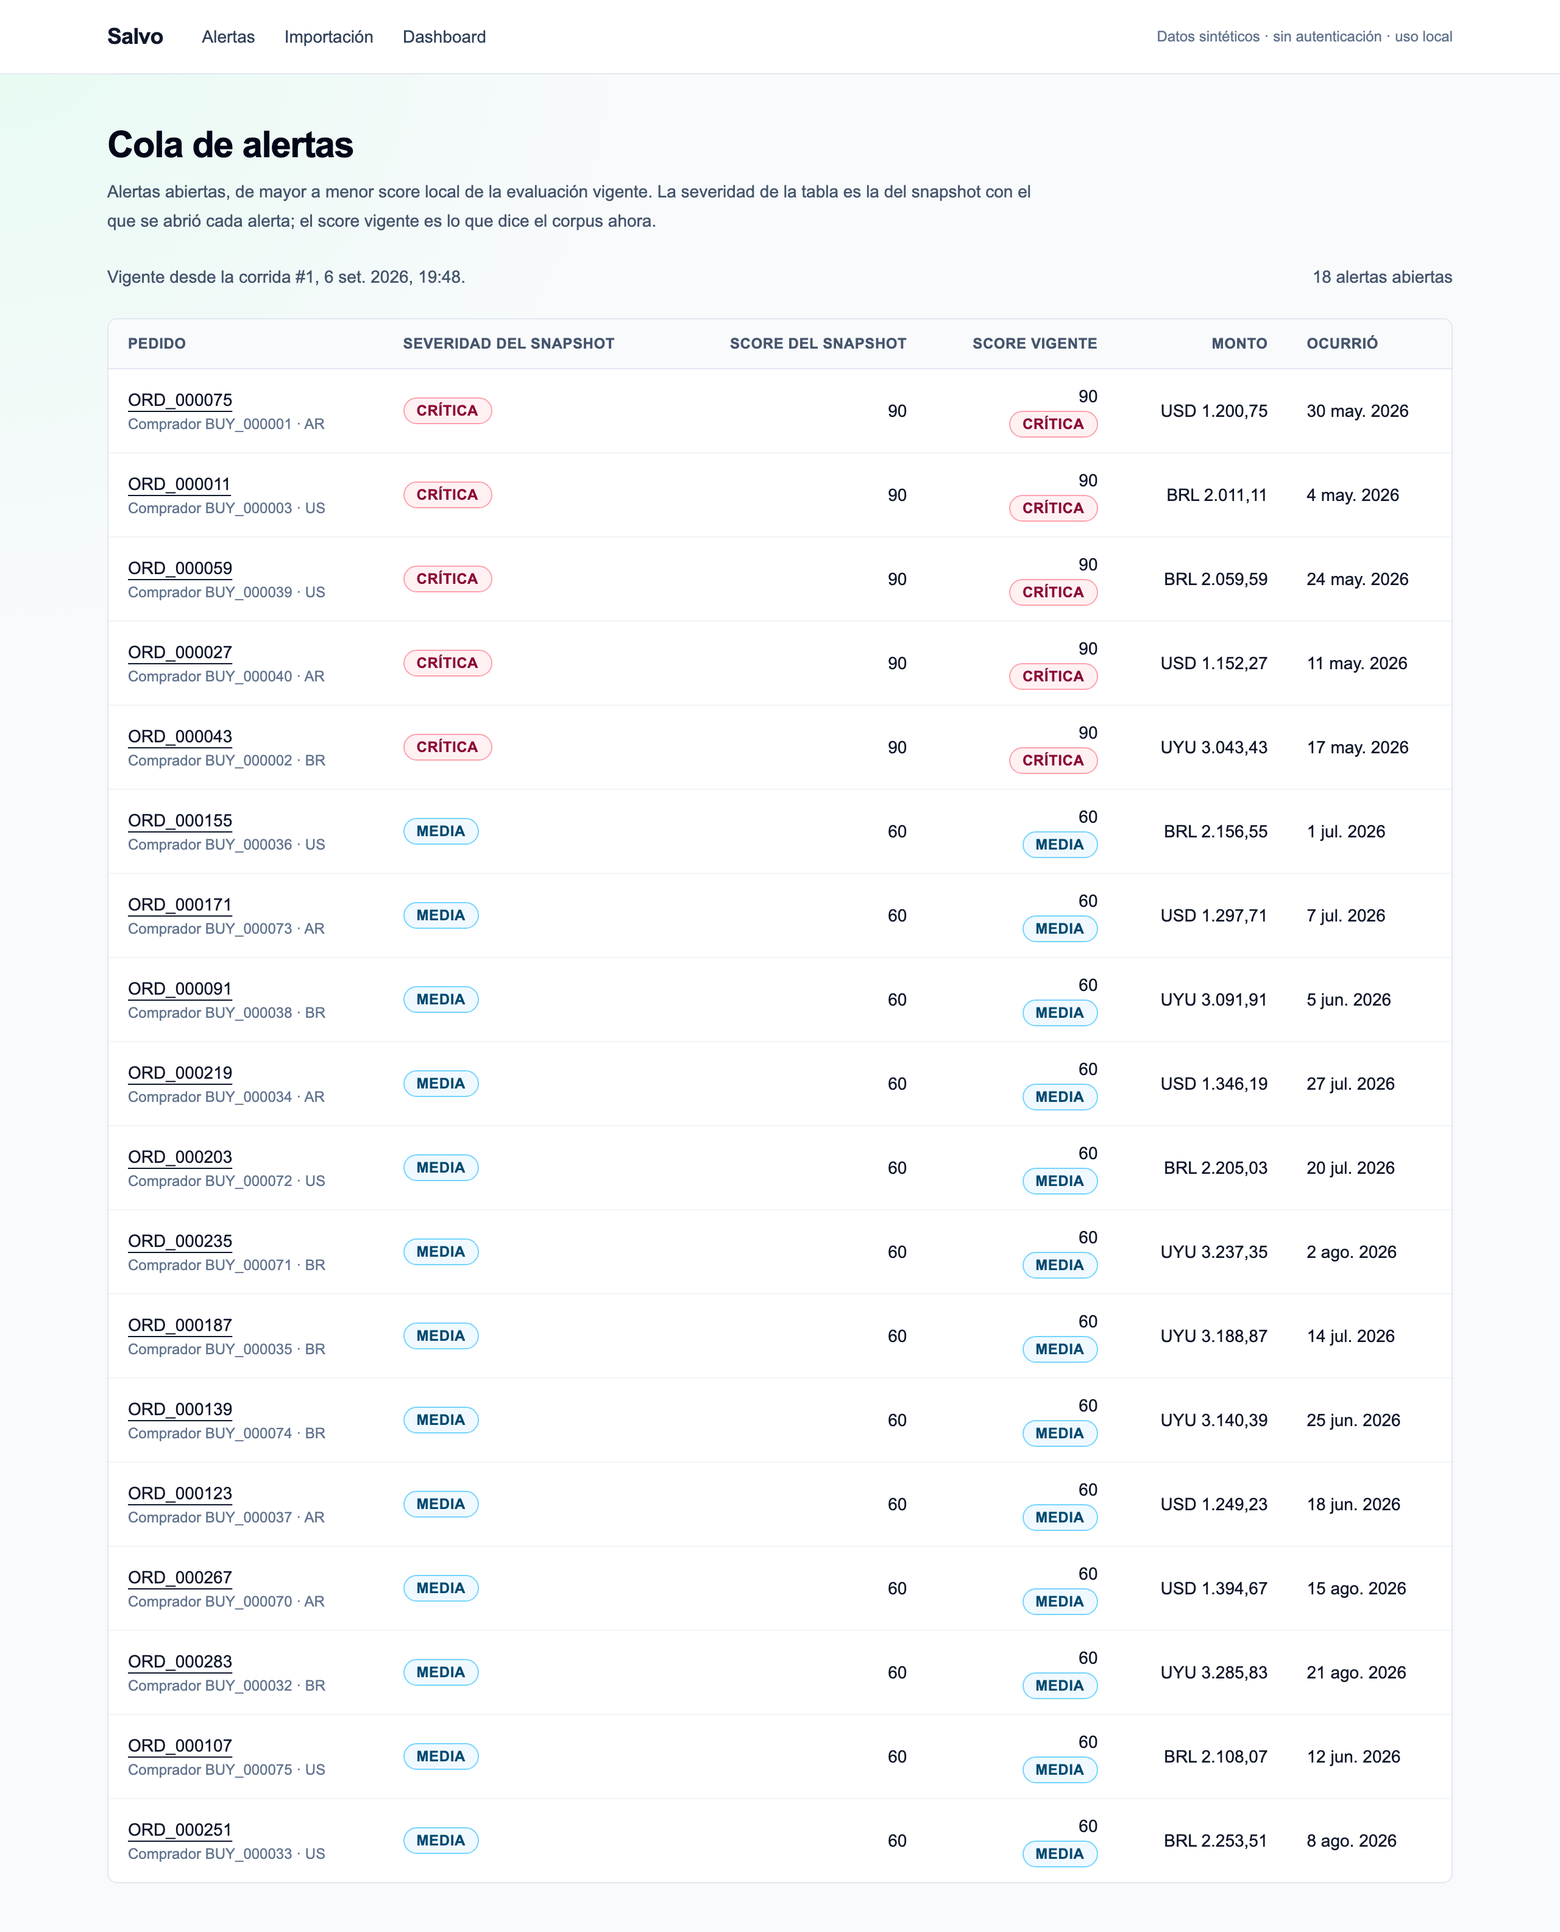
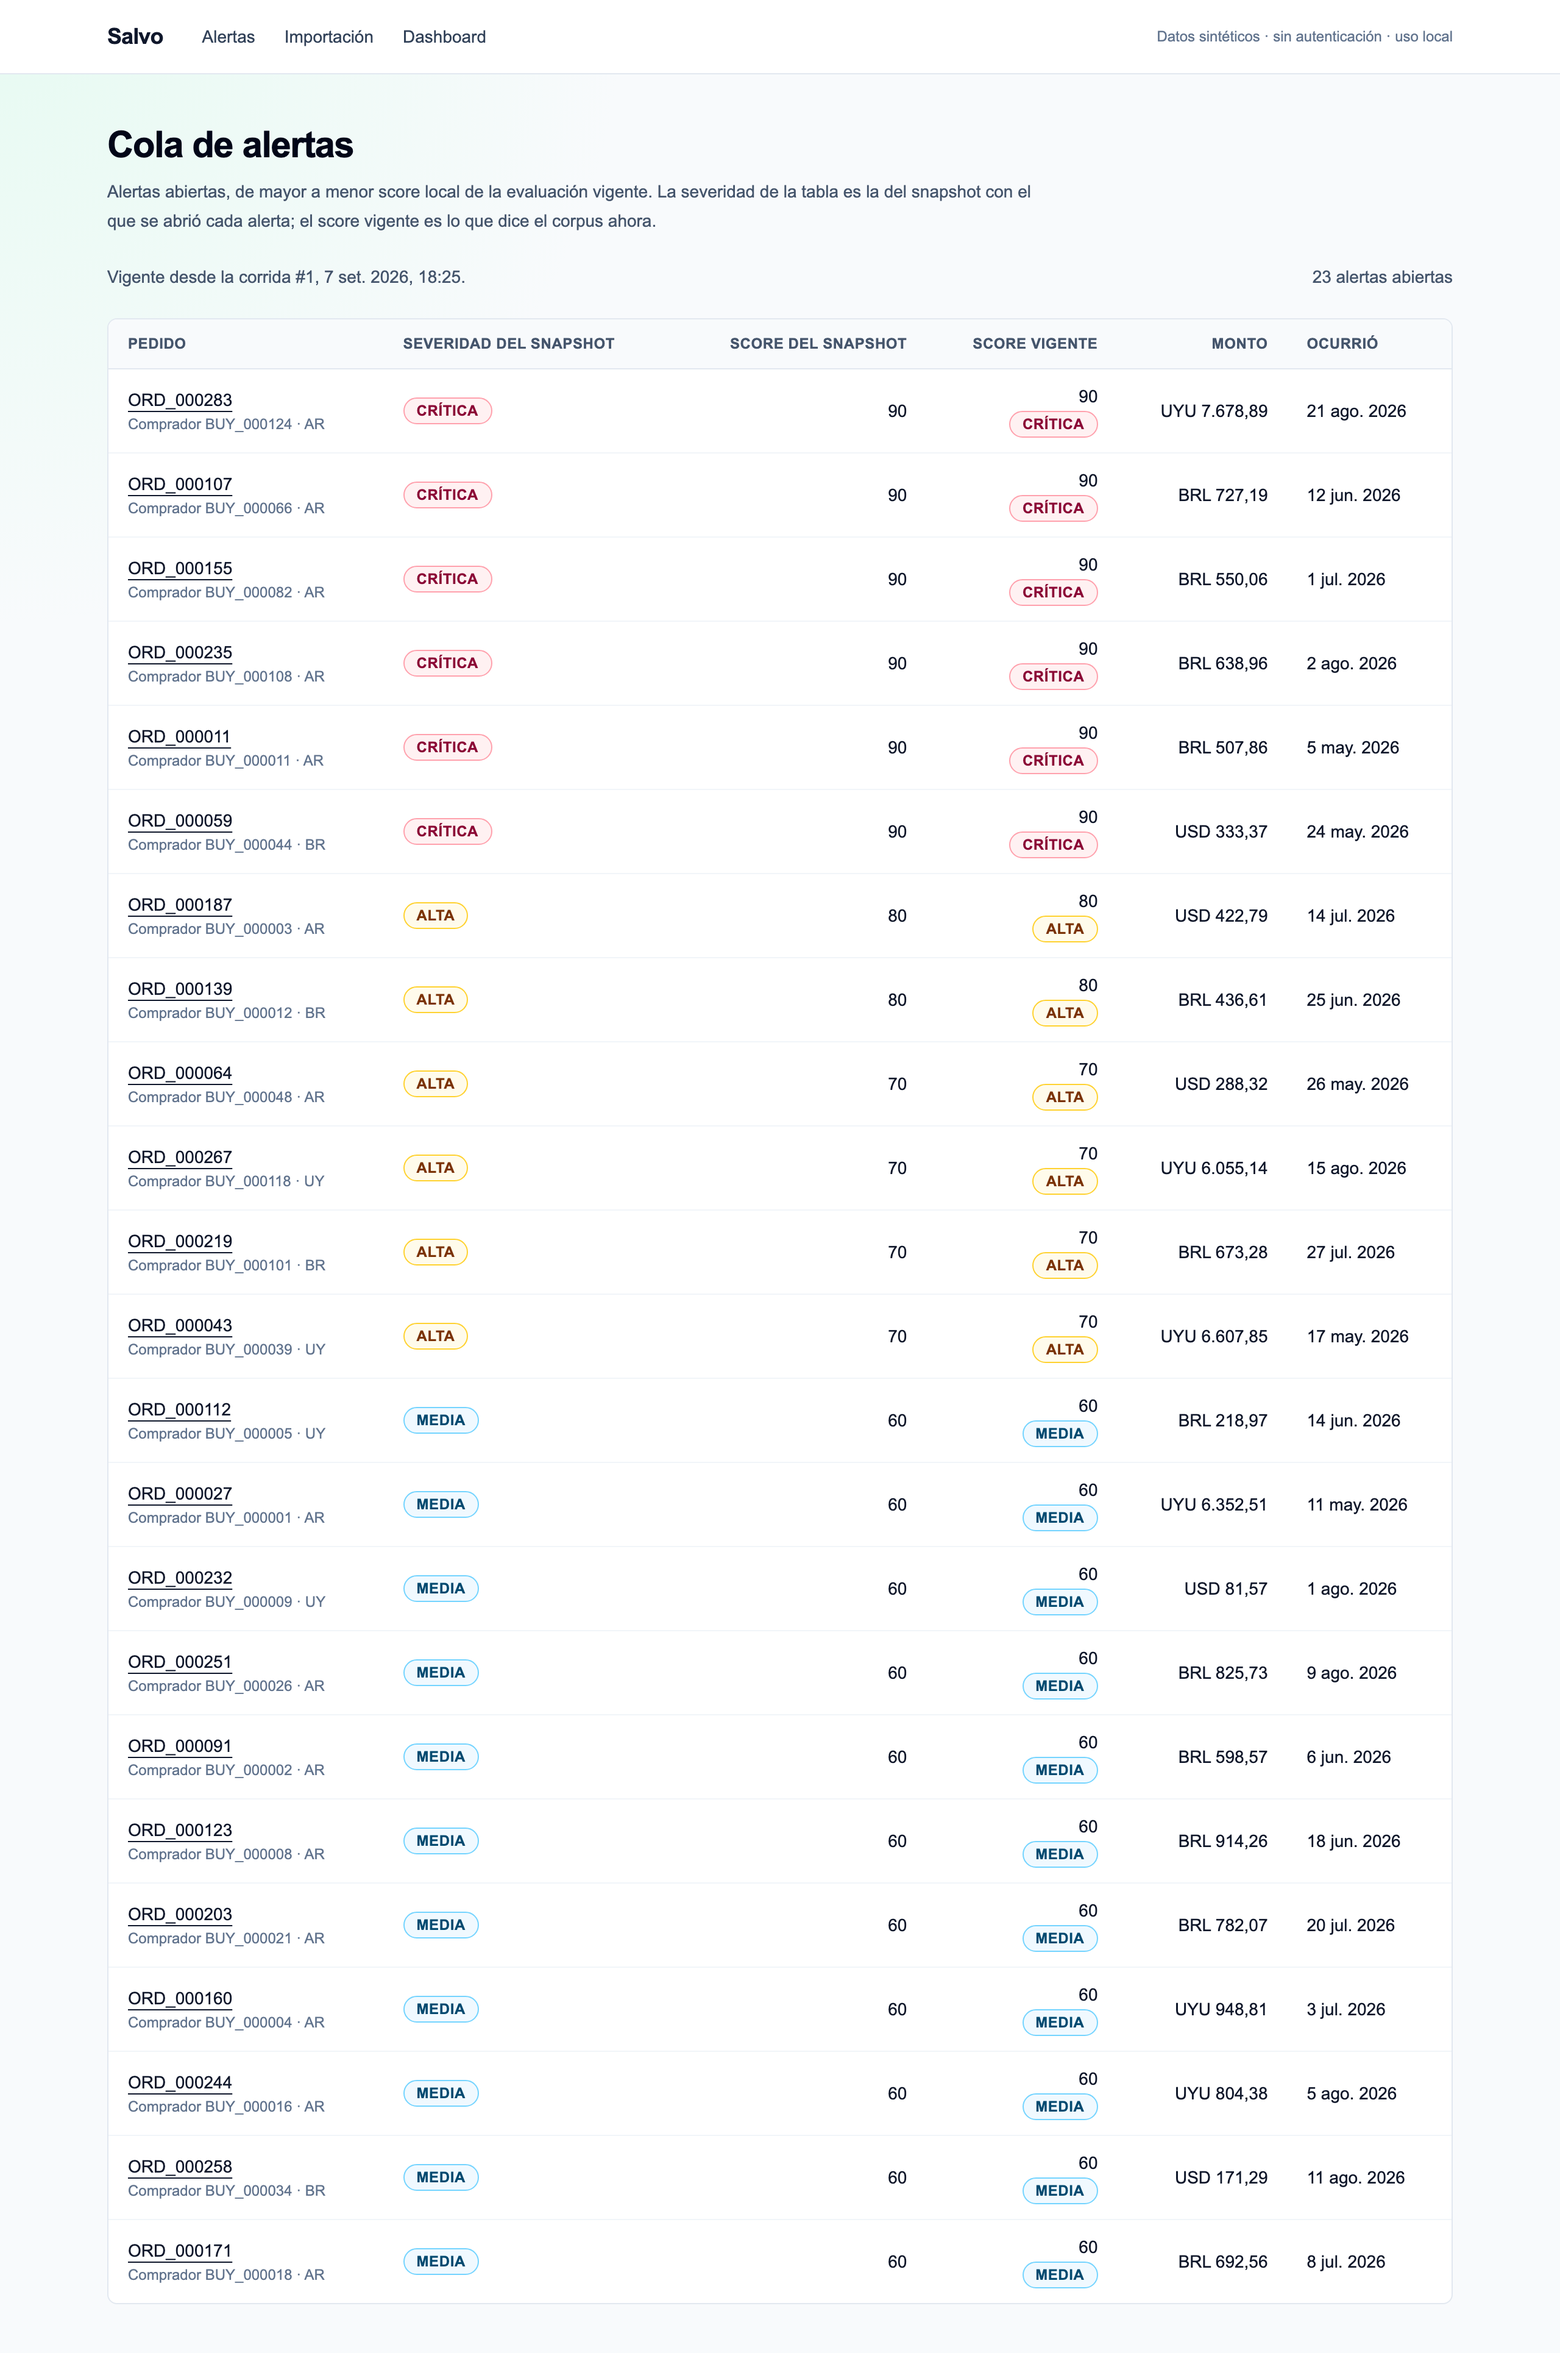
docs(capturas): las seis regeneradas, y el panel de denegados deja de salir vacio
Las seis capturas salen de una base nueva del 2026-09-07 y muestran el
corpus v2: 23 alertas con las tres bandas, las seis reglas, y las dos
matrices de confusion. Las anclas previas a cada disparo pasaron sin
cambios: la consola cambio de texto pero no de forma.

El hallazgo estuvo en mirar la primera tanda en vez de confiar en que
paso. El panel "Denegados por el proveedor sin alerta local" salia vacio,
diciendo que nadie habia pedido todavia la evaluacion externa, porque
capturas.sh solo la pedia para ORD_000011. Es el panel que E9A construyo
para que "hay fraude que un proveedor ve y nosotros no" dejara de ser
prosa, y la captura del dashboard lo mostraba en blanco.

capturas.sh pide ahora la evaluacion externa del corpus entero, despues
del pedido individual para que ORD_000011 conserve su APPROVED y la toma
6 siga teniendo divergencia. No entrega los callbacks: con las sincronas
el panel ya muestra 43 pedidos, y dejar 21 pendientes es el estado mas
honesto. La tabla tiene scroll propio, asi que la captura no crece por
las 43 filas.

Y capturar.mjs exige ahora "Score local" y ORD_000275 antes de disparar
la toma 4: la columna solo existe cuando el panel tiene filas, y
ORD_000275 es uno de los tres arquetipos que las reglas no pueden ver.
Sin esa asercion el panel podia volver a vaciarse en silencio.

Claude-Session: https://claude.ai/code/session_01ByHvaiEDddYsAYJhJxvwdf

diff --git a/docs/capturas/README.md b/docs/capturas/README.md
@@ -21,8 +21,9 @@ Ninguna captura y ningún paso del guion cita una alerta por su URL ni por su po
 nombran pedidos, y por eso:
 
 - **El orden dentro de cada banda cambia.** Todas las alertas de una corrida comparten instante de
-  creación y, con scores de solo 60 y 90, el desempate lo decide un `Guid.NewGuid()`. `ORD_000011`
-  aparece en la banda crítica, pero no siempre en el mismo renglón.
+  creación, y los veintitrés scores se reparten en cuatro valores —60, 70, 80 y 90—, así que dentro
+  de cada uno el desempate lo decide un `Guid.NewGuid()`. `ORD_000011` aparece en la banda crítica,
+  pero no siempre en el mismo renglón.
 - **El identificador de cada alerta cambia**, por lo mismo. La URL de una captura de hoy no existe
   mañana.
 - **Los instantes en pantalla cambian.** «Abierta el…», «Vigente desde la corrida #1…», «Redactada
@@ -39,13 +40,31 @@ regeneración en la historia de Git.
 
 | Archivo | Qué muestra | Texto alternativo |
 | --- | --- | --- |
-| `01-cola.png` | `/alerts`: 18 alertas abiertas, de mayor a menor score vigente, con la severidad del snapshot y la vigente en columnas separadas | Cola de alertas de Salvo con dieciocho alertas abiertas, ordenadas por score, mostrando pedido, severidad, score del snapshot, score vigente, monto y fecha |
+| `01-cola.png` | `/alerts`: 23 alertas abiertas, de mayor a menor score vigente, con la severidad del snapshot y la vigente en columnas separadas. Las tres bandas están presentes | Cola de alertas de Salvo con veintitrés alertas abiertas, ordenadas por score, mostrando pedido, severidad, score del snapshot, score vigente, monto y fecha |
 | `02-detalle.png` | El detalle completo de la alerta de `ORD_000011`: pedido, snapshot congelado, evaluación vigente, evaluación externa con su divergencia, explicación y el formulario de veredicto | Detalle de la alerta del pedido ORD_000011, con sus tres señales de riesgo, la opinión del proveedor externo, la explicación redactada y el formulario para emitir el veredicto |
 | `03-explicacion.png` | El bloque de explicación, con el pie que dice quién la escribió y que se verificó antes de guardarse | Bloque de explicación de una alerta: un párrafo que describe la evaluación con sus cifras, y debajo la nota de que lo redactó una plantilla determinista y no un modelo, verificado contra la evaluación antes de guardarse |
-| `04-dashboard.png` | `/dashboard` entero: alertas por banda, monto en riesgo por moneda, tasa de marcado, señales principales, el gráfico semanal en SVG y «Calidad del criterio» con su advertencia | Dashboard de Salvo con dieciocho alertas abiertas, monto en riesgo separado por moneda, gráfico semanal de pedidos y denegados, y la sección de calidad del criterio con la advertencia de que las métricas prueban el pipeline y no la detección |
+| `04-dashboard.png` | `/dashboard` entero: alertas por banda, monto en riesgo por moneda, tasa de marcado, las seis señales, los denegados por el proveedor sin alerta local, el gráfico semanal en SVG y «Calidad del criterio» con sus dos matrices de confusión | Dashboard de Salvo con veintitrés alertas abiertas, monto en riesgo separado por moneda, el panel de pedidos que el proveedor denegó sin alerta local, gráfico semanal de pedidos y denegados, y la sección de calidad del criterio con sus matrices de confusión |
 | `05-import.png` | `/import` después de enviar `docs/muestras/import-con-errores.csv`: un pedido importado y cinco rechazados, cada uno con su registro, línea, campo y motivo | Pantalla de importación tras enviar un archivo con errores: un pedido importado, cinco registros rechazados listados uno por uno con su línea, su campo y el motivo del rechazo |
 | `06-divergencia.png` | La divergencia **de criterio**: el motor local marcó el pedido y el proveedor lo aprobó, sin combinarlos ni comparar sus scores | Bloque de evaluación externa mostrando que los dos criterios no coinciden: el motor local marcó el pedido por encima del umbral y el proveedor externo lo aprobó, con la aclaración de que no se combinan en un veredicto único |
 
 La toma 5 es la única que necesita un navegador que interactúe: el resultado de una importación vive
 en el estado del cliente y no hay tabla de importaciones, así que sin enviar el formulario de verdad
 no hay ninguna pantalla que fotografiar. Componerla de otro modo sería fabricarla.
+
+Esa misma toma deja ver dos asperezas que el README declara como límites y que no se retocaron: el
+aviso dice «Se importaron 1 pedidos», y el mensaje técnico de cada registro rechazado sigue en
+inglés. Una captura que las escondiera sería una captura peor.
+
+## El panel de denegados necesita que alguien pregunte
+
+El panel «Denegados por el proveedor sin alerta local» es la única pantalla donde aparece un pedido
+que las reglas nunca marcaron, y sale vacío mientras nadie le haya preguntado nada al proveedor. Por
+eso `scripts/capturas.sh` pide la evaluación externa del **corpus entero** antes de la toma 4, y
+`tools/capturas/capturar.mjs` exige que en pantalla estén la columna «Score local» y `ORD_000275`
+—uno de los tres arquetipos de fraude que el motor local no puede ver— antes de disparar. Sin esa
+aserción el panel podía volver a salir en blanco sin que nadie se enterara, que es exactamente como
+salió la primera regeneración de esta tanda.
+
+No se entregan los callbacks: con las evaluaciones síncronas el panel ya muestra 43 pedidos, y
+dejar veintiuno pendientes es el estado más honesto para fotografiar. Entregarlos lleva el panel a
+51.
